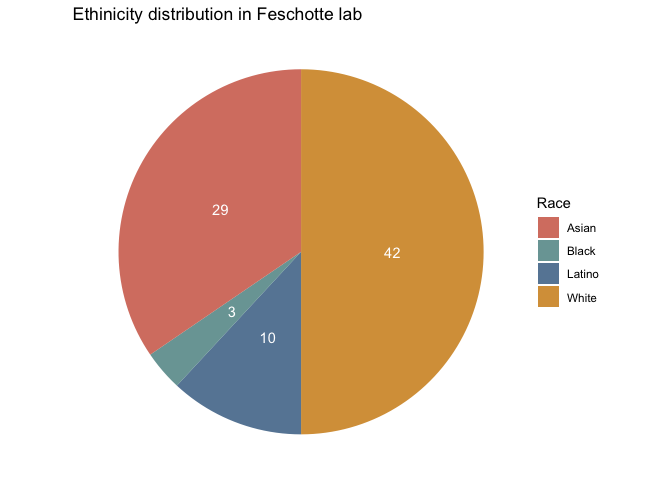
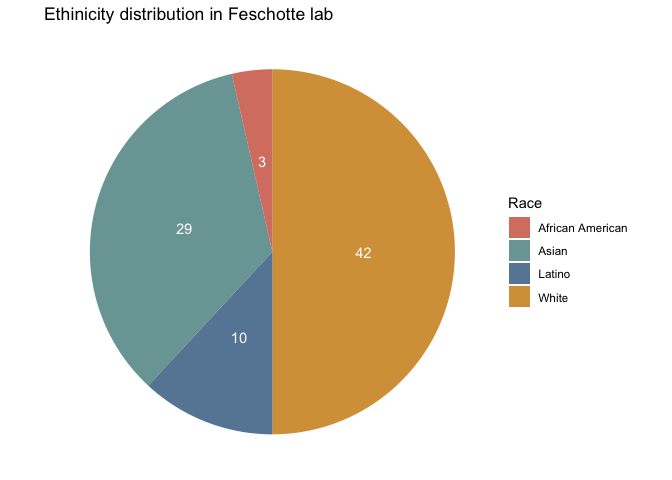
edit

diff --git a/world_map.md b/world_map.md
@@ -78,8 +78,8 @@ ggplot(lab, mapping=aes(x="", y=count, fill=Gender)) +
 
 ### Ethnicity distribution in Feschotte lab
 
-tidy up the PIs typo
-====================
+tidy up PIs typo
+================
 
 ``` r
 table(lab$Race)
@@ -93,13 +93,14 @@ table(lab$Race)
 lab_ethnicity <- lab %>% 
   mutate(Race= ifelse(Race == "white", "White", Race)) %>% 
   mutate(Race= ifelse(Race == "Latino?", "Latino", Race)) %>% 
-  mutate(Race= ifelse(Race == "Latina", "Latino", Race))
+  mutate(Race= ifelse(Race == "Latina", "Latino", Race)) %>% 
+  mutate(Race= ifelse(Race == "Black", "African American", Race))
 table(lab_ethnicity$Race)
 ```
 
     ## 
-    ##  Asian  Black Latino  White 
-    ##     29      3     10     42
+    ## African American            Asian           Latino            White 
+    ##                3               29               10               42
 
 ``` r
 mycols2 <-c("coral3","darkslategray4","steelblue4","orange3")
